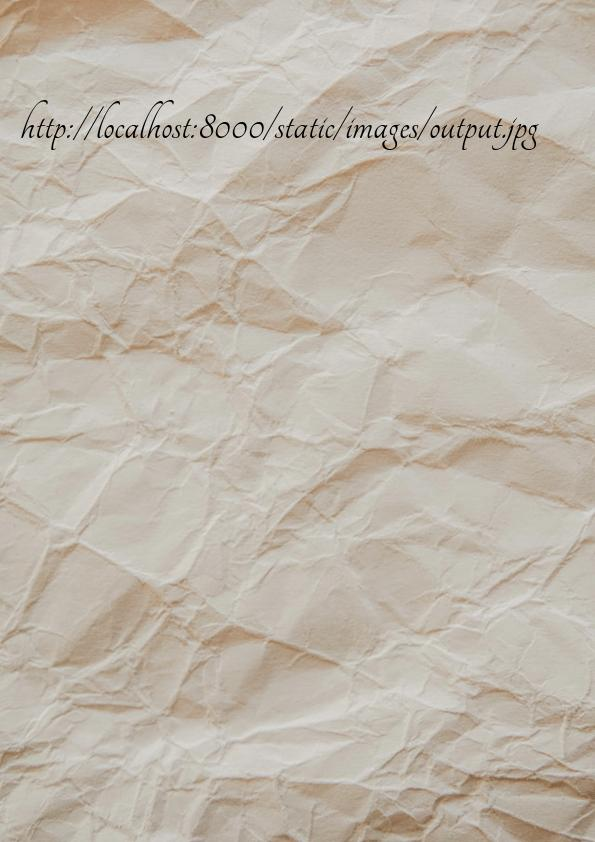
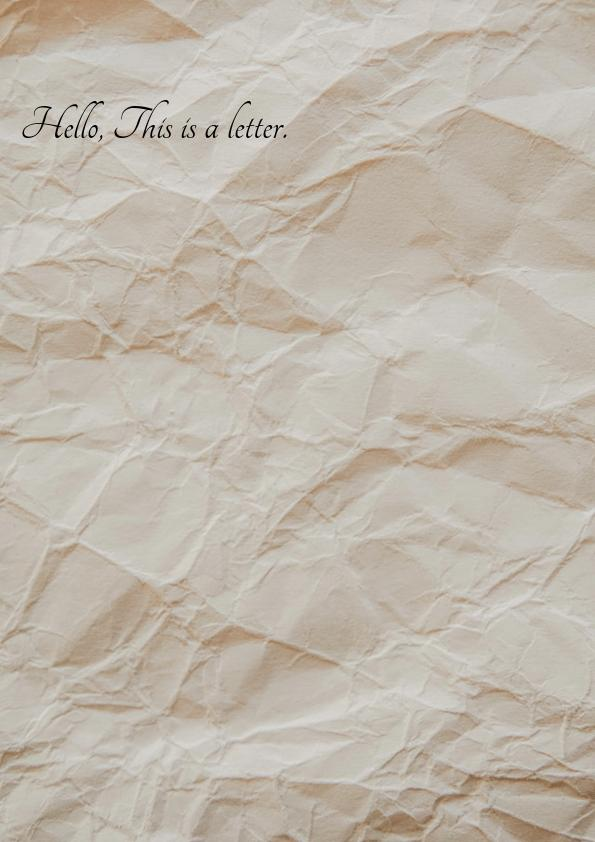
Add the generated handout into the homepage

Changed region(s): [[0.0303, 0.1235, 0.9076, 0.1853]]

diff --git a/spook/handouts/templates/home.html b/spook/handouts/templates/home.html
@@ -7,23 +7,21 @@
     <em>Feral Slinky Team</em>!
   </p>
   {% load static %}
-  <img
-  src="{% static 'images/woods.jpg' %}"
-  alt="Background Image" 
-  style="width:555px;height:540px;"/>
-
-  <h2>Contents</h2>
-  <p>The library has the following:</p>
-  <ul>
-    <li><strong>Text:</strong> {{ title }}</li>
-    <li><strong>Date:</strong> {{ date }}</li>
-  </ul>
+  <h2>Handout</h2>
+  <p>Provide the name and the text to go inside the handout:</p>
 
   <form action="" method="post">
     {% csrf_token %}
     {{ form.as_p }}
     <input type="submit" value="Submit">
   </form>
+  <h3>Generated Handout</h2>
+  <a href="{% static 'images/output.jpg' %}" download>download</a>
+  <p></p>
+  <img
+  src="{% static 'images/output.jpg' %}"
+  alt="Background Image"/>
+  
 
 
 {% endblock %}

diff --git a/spook/handouts/views.py b/spook/handouts/views.py
@@ -15,6 +15,7 @@ from matplotlib import font_manager
 
 # Create your views here.
 def formpage(request):
+
     # Handle Form 
     if request.method == "POST":
         form = HandoutForm(request.POST)
@@ -26,16 +27,15 @@ def formpage(request):
             drawservice = ImageDrawService()
             
             drawservice.draw(handout)
-
-            return render(request, 'output.html')
-    
+            
     else:
         form = HandoutForm()
 
+    
     context = {
         'title': 'Handouts',
         'date': 1920,
         "form": form
     }
-
+       
     return render(request, 'home.html', context=context)
